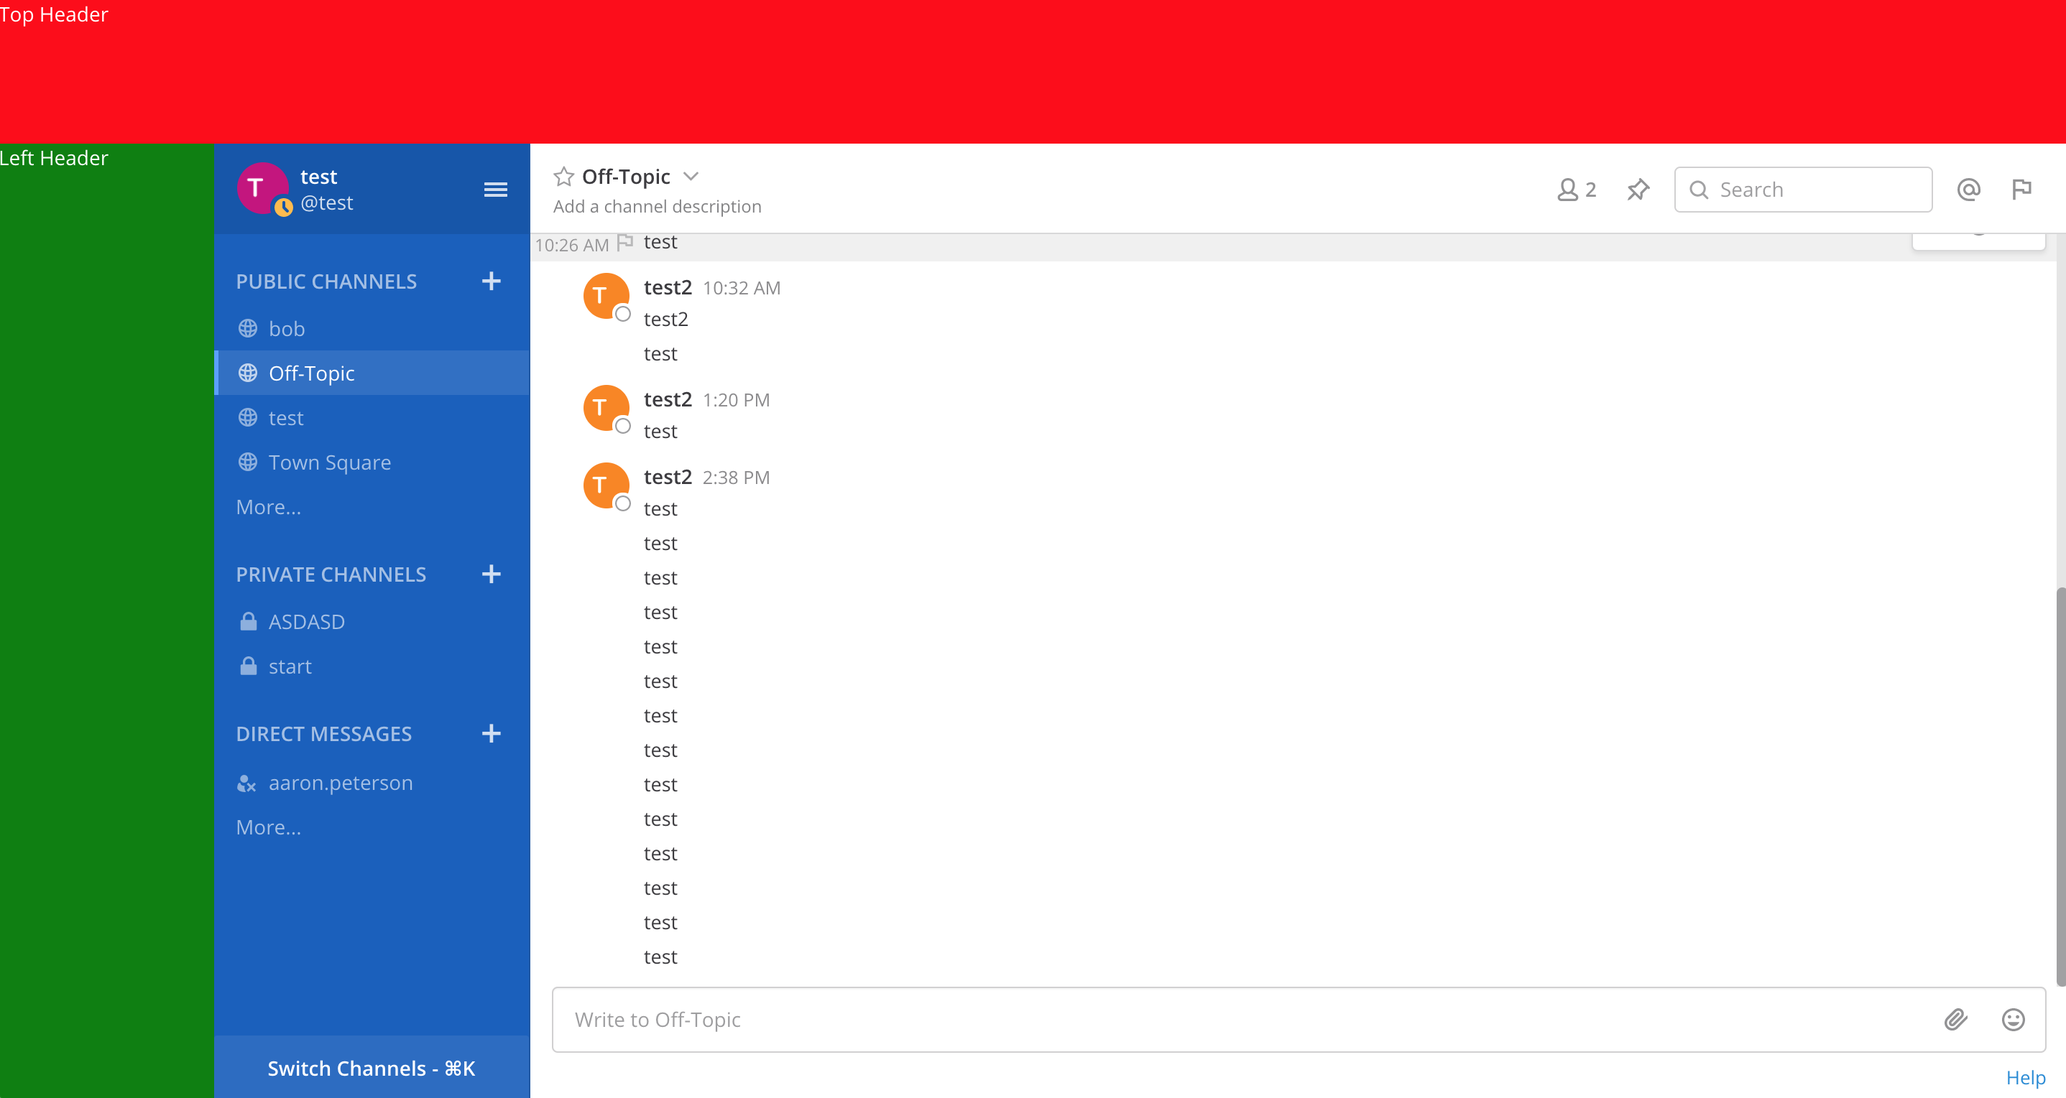
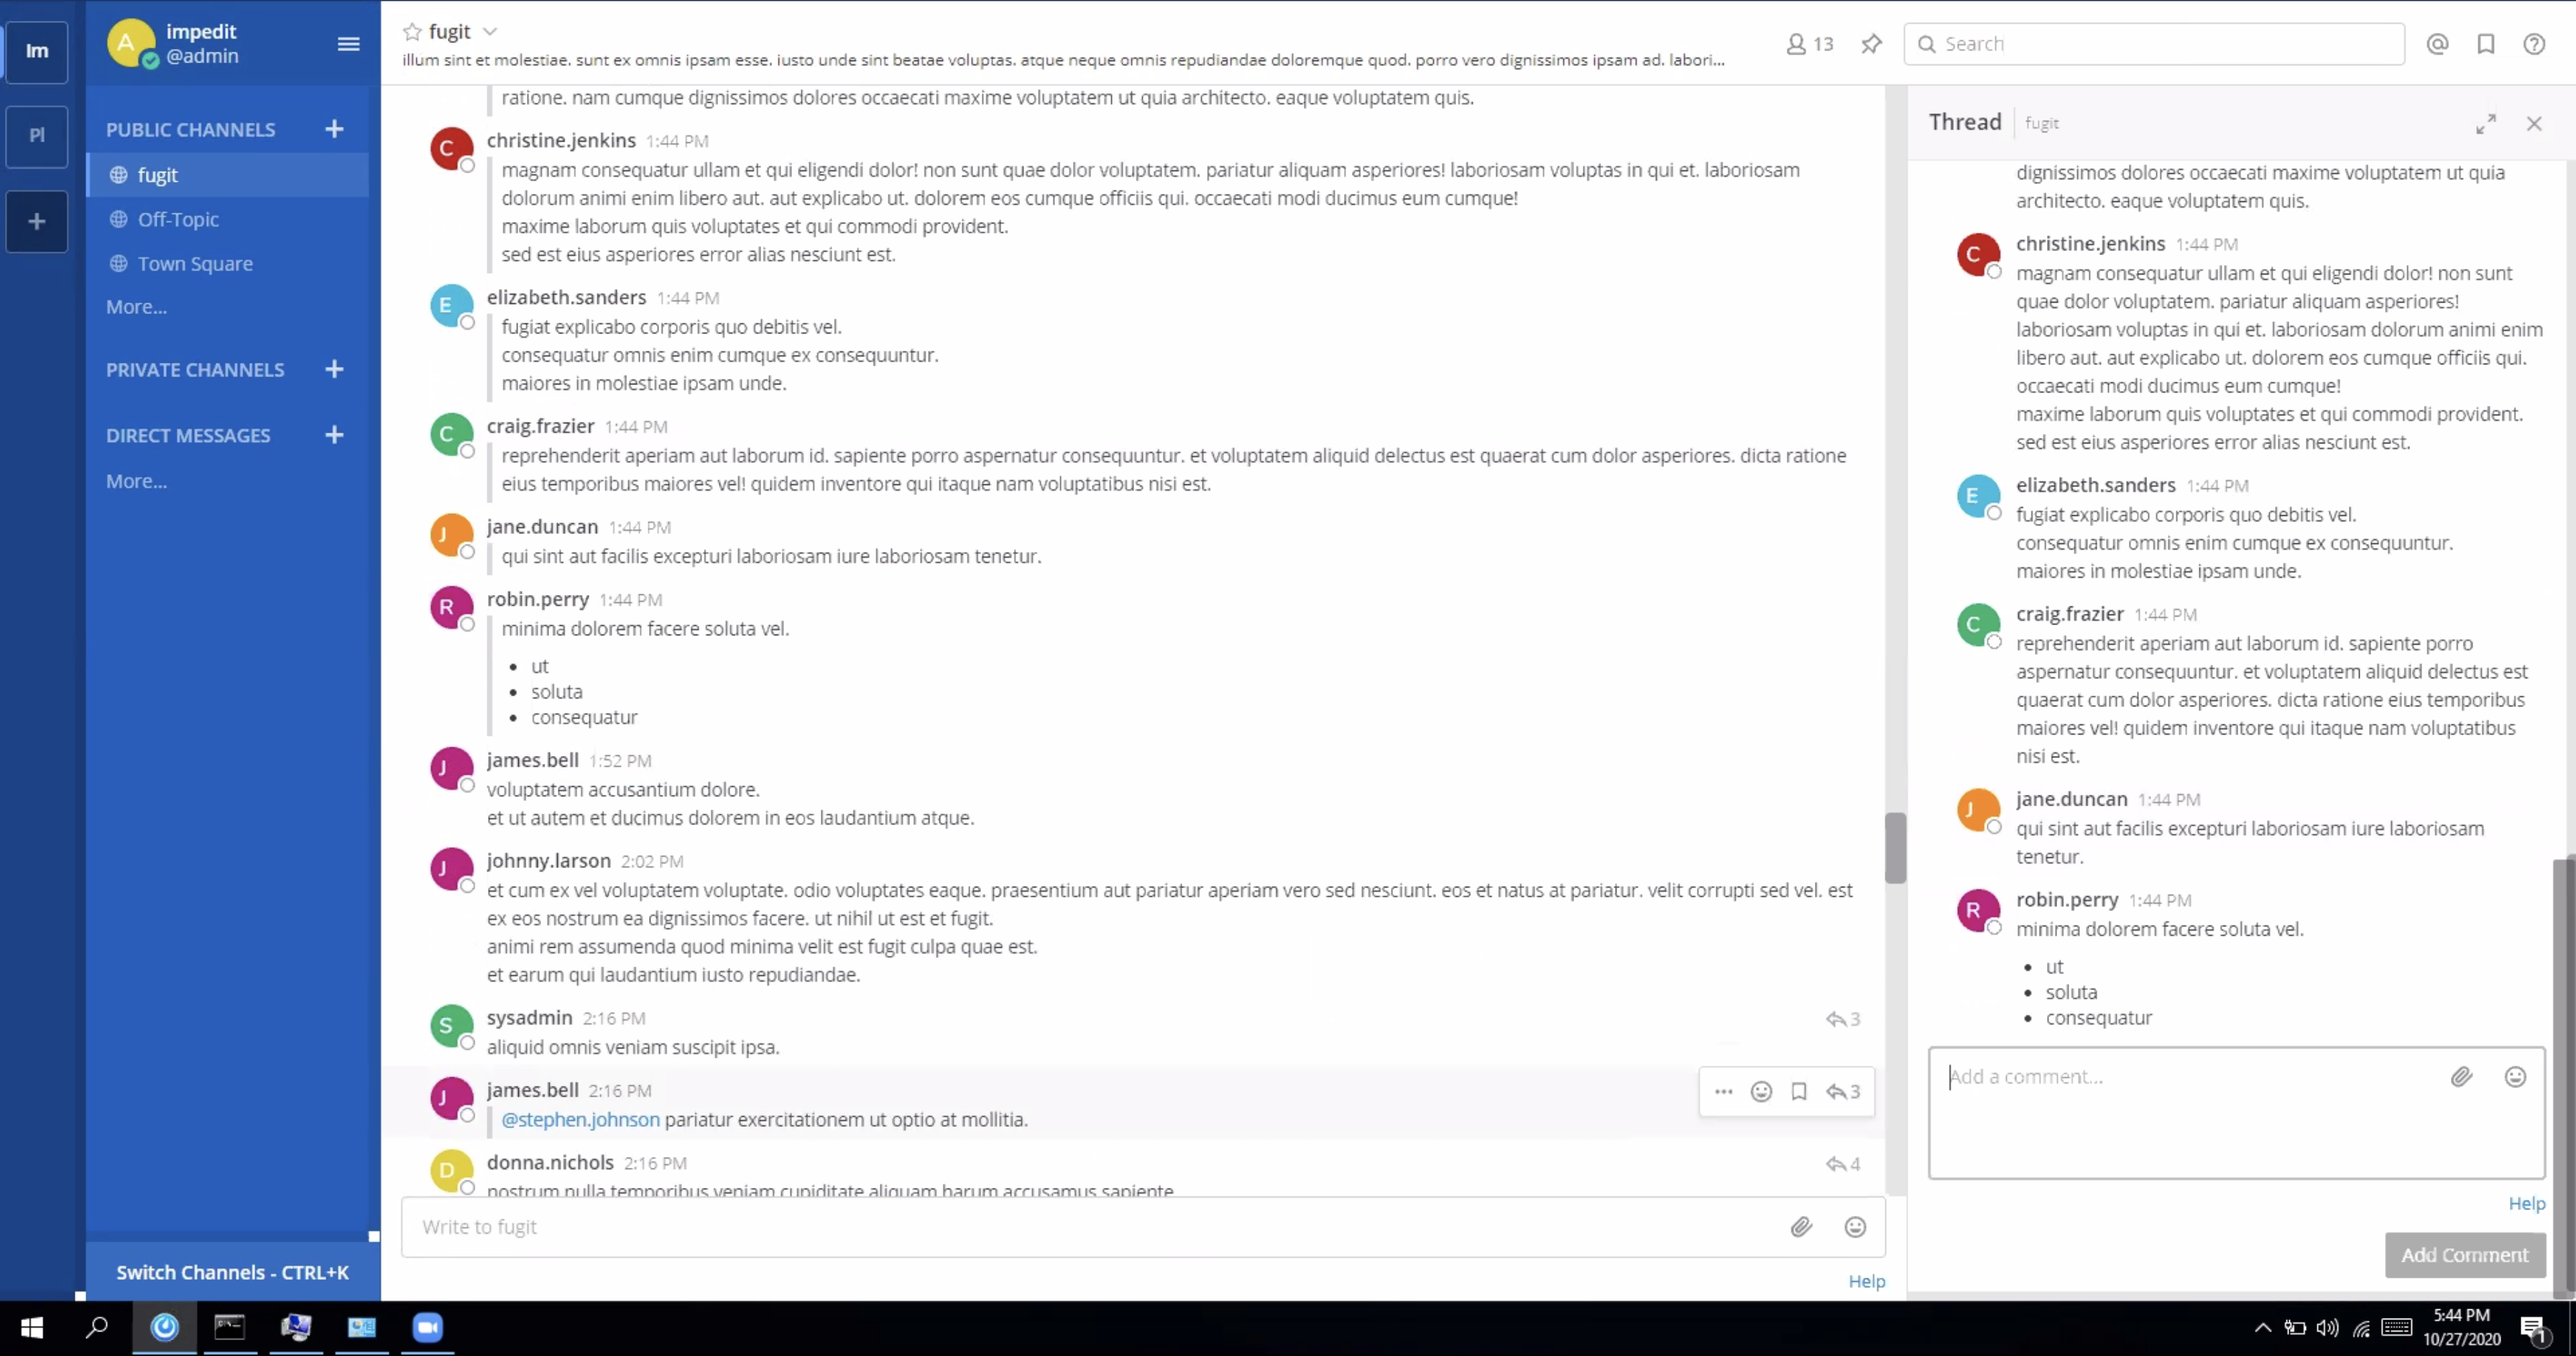
Implemented Custom CSS

diff --git a/webapp/src/index.js b/webapp/src/index.js
@@ -1,5 +1,4 @@
 import manifest from './manifest';
-import {Top, Left} from './components';
 import {addStyle, removeStyle} from './css';
 
 export default class Plugin {
@@ -7,26 +6,18 @@ export default class Plugin {
     initialize(registry, store) {
         // @see https://developers.mattermost.com/extend/plugins/webapp/reference/
 
-        registry.registerRootComponent(Top);
-        registry.registerRootComponent(Left);
-
         addStyle('customized-css', `
-          .sidebar--left {
-            left: 150px;
-            top: 100px;
-            height: calc(100% - 100px);
+          .post-list__dynamic::-webkit-scrollbar {
+            width: 16px !important;
           }
 
-          .sidebar--right {
-            top: 163px;
-            height: calc(100% - 100px);
+          #sidebar-left .scrollbar--view ~ div {
+            width: 16px !important;
           }
 
-          .app__content {
-            left: 150px;
-            top: 100px;
-            height: calc(100% - 100px);
-            width: calc(100% - 220px - 150px);
+          #sidebar-right .scrollbar--view ~ div {
+            width: 16px !important;
+            opacity: 1 !important;
           }
         `);
     }

diff --git a/webapp/src/manifest.js b/webapp/src/manifest.js
@@ -2,9 +2,9 @@
 
 const manifest = JSON.parse(`
 {
-    "id": "com.mattermost.plugin-wrapper-demo",
-    "name": "Wrapper Demo",
-    "description": "Illustrate how to inject CSS to wrap the Mattermost application absolutely positioned divs.",
+    "id": "com.mattermost.plugin-large-scrollbars",
+    "name": "Large Scrollbars Plugin",
+    "description": "Doubles the width of scrollbars to make it easier to use Mattermost on pen-based tablets",
     "version": "0.1.0",
     "min_server_version": "5.12.0",
     "webapp": {

diff --git a/README.md b/README.md
@@ -1,5 +1,5 @@
-# Plugin Wrapper Demo
+# Large Scrollbars Plugin
 
-This plugin serves as a starting point for how to inject CSS to wrap the Mattermost application with arbitrary content.
+Doubles the width of scrollbars to make it easier to use Mattermost on pen-based tablets
 
 ![screenshot](./demo_screenshot.png)
